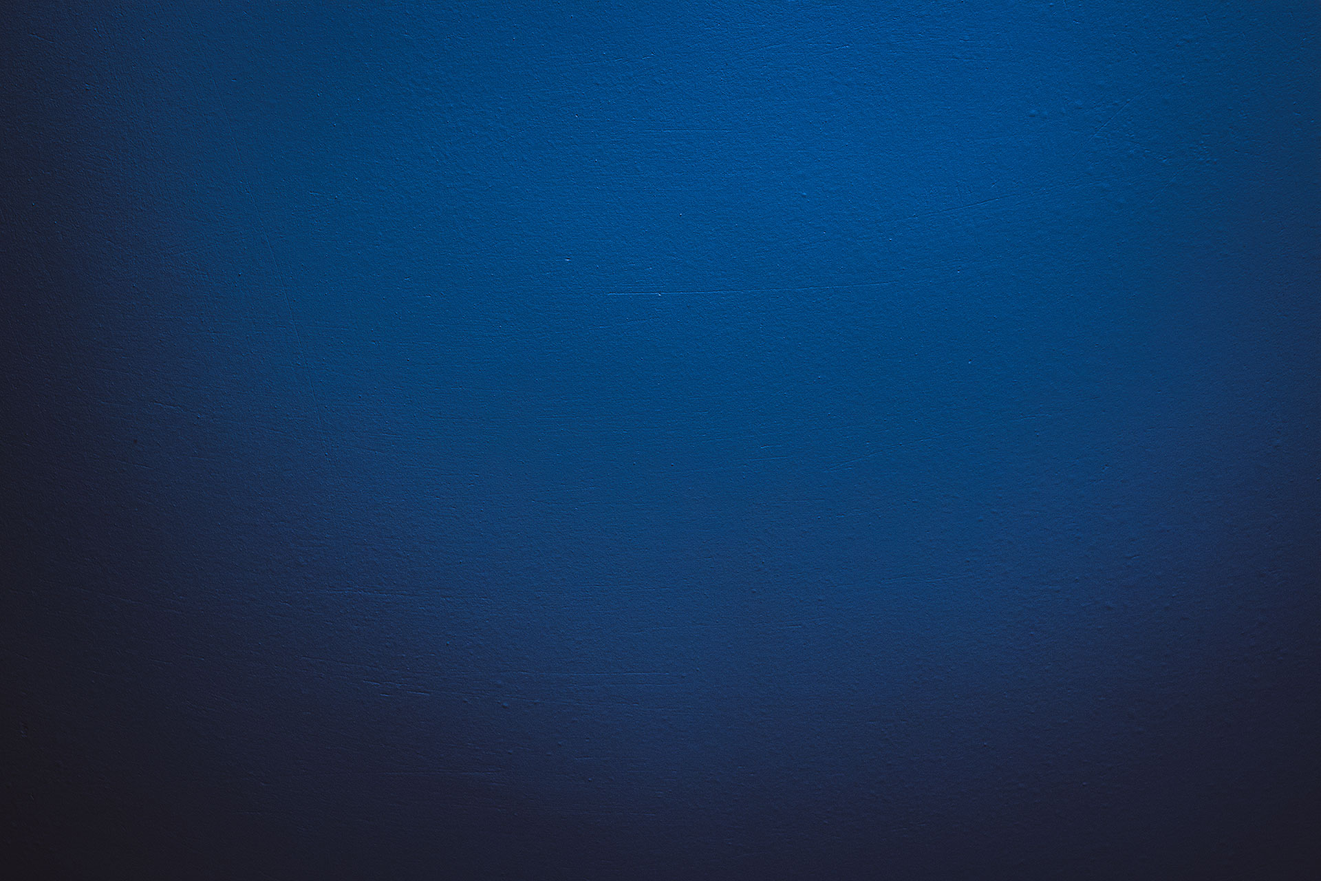
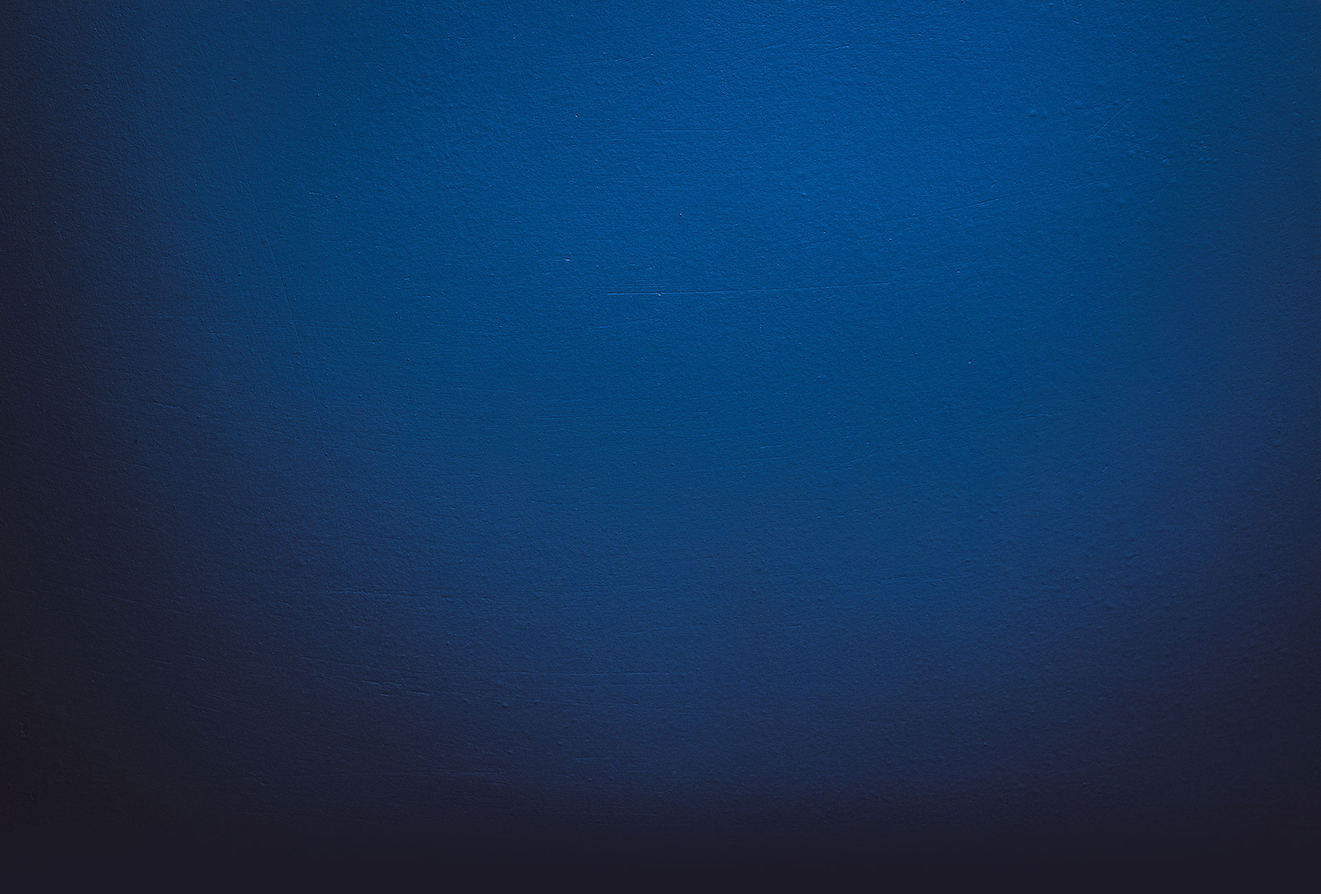
stilizari website

diff --git a/catalog/view/theme/epliante/stylesheet/stylesheet.css b/catalog/view/theme/epliante/stylesheet/stylesheet.css
@@ -5,7 +5,7 @@ body {
 	font-size: 16px;
 	line-height: 20px;
 	width: 100%;
-        
+        background-color: #1c1a27;
         background-image: url('../image/bg-image.jpg');
         background-repeat: no-repeat;
         background-attachment: fixed;
@@ -861,4 +861,10 @@ div.required .control-label:before {
 }
 #companie {
     display: none;
+}
+
+.send-btn {
+    padding: 10px 30px;
+    font-size: 16px;
+    font-weight: bold;
 }

diff --git a/system/library/image.php b/system/library/image.php
@@ -107,7 +107,7 @@ class Image {
 		if ($this->mime == 'image/png') {
 			imagealphablending($this->image, false);
 			imagesavealpha($this->image, true);
-			$background = imagecolorallocatealpha($this->image, 255, 255, 255, 127);
+			$background = imagecolorallocate($this->image, 255, 255, 255);
 			imagecolortransparent($this->image, $background);
 		} else {
 			$background = imagecolorallocate($this->image, 255, 255, 255);
